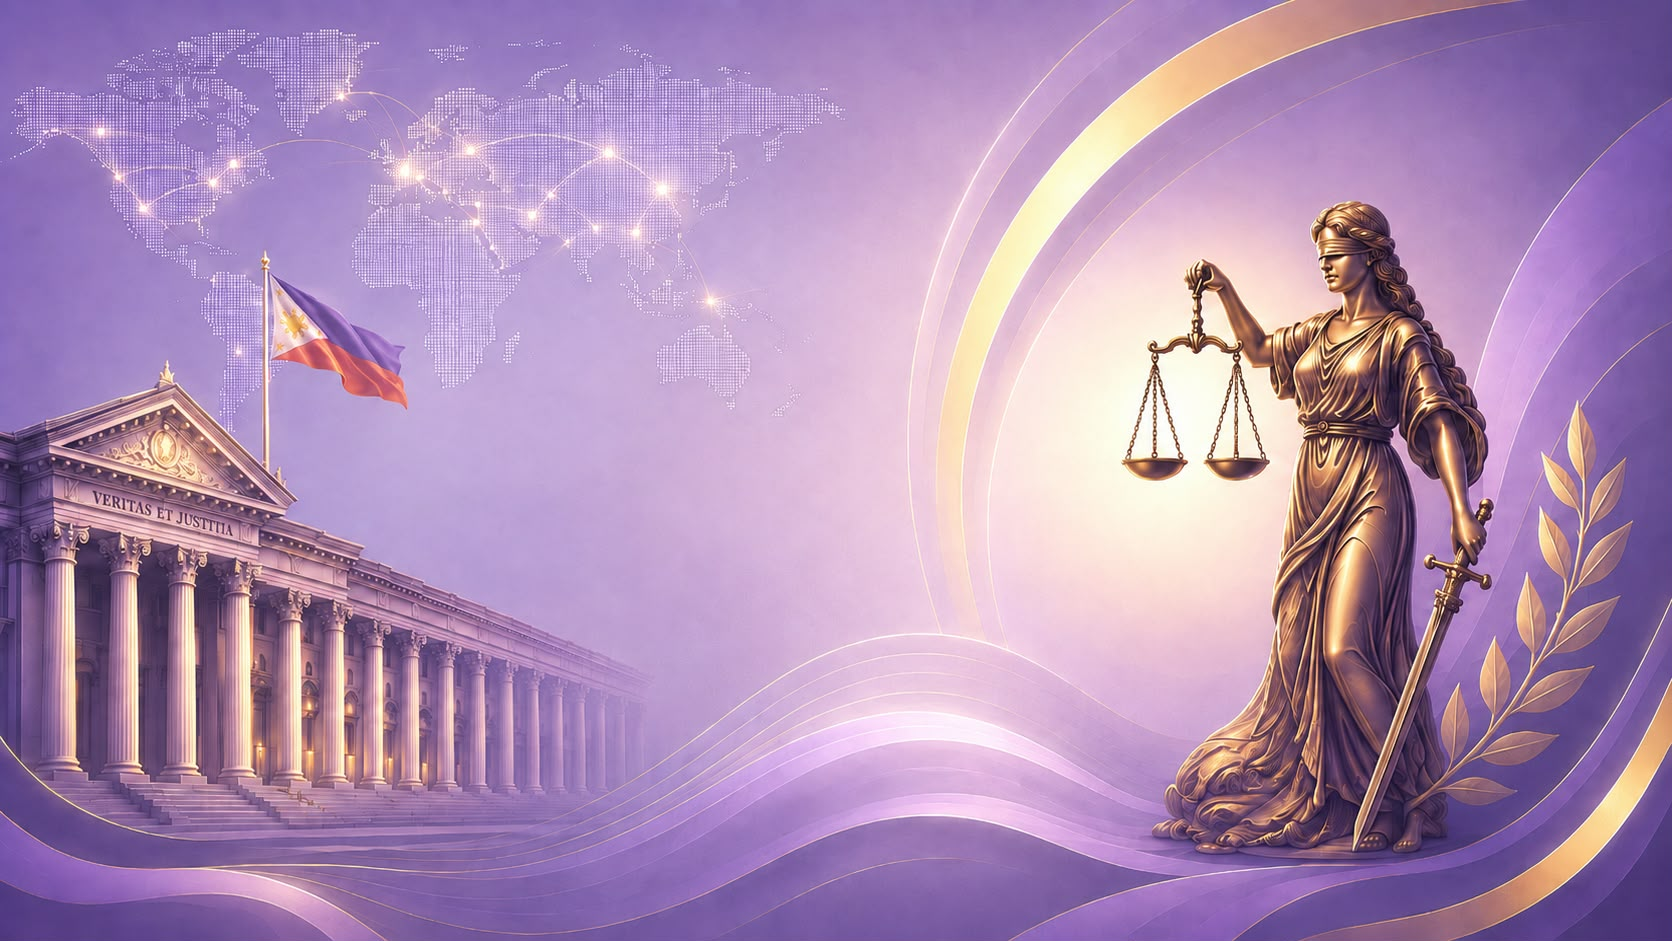
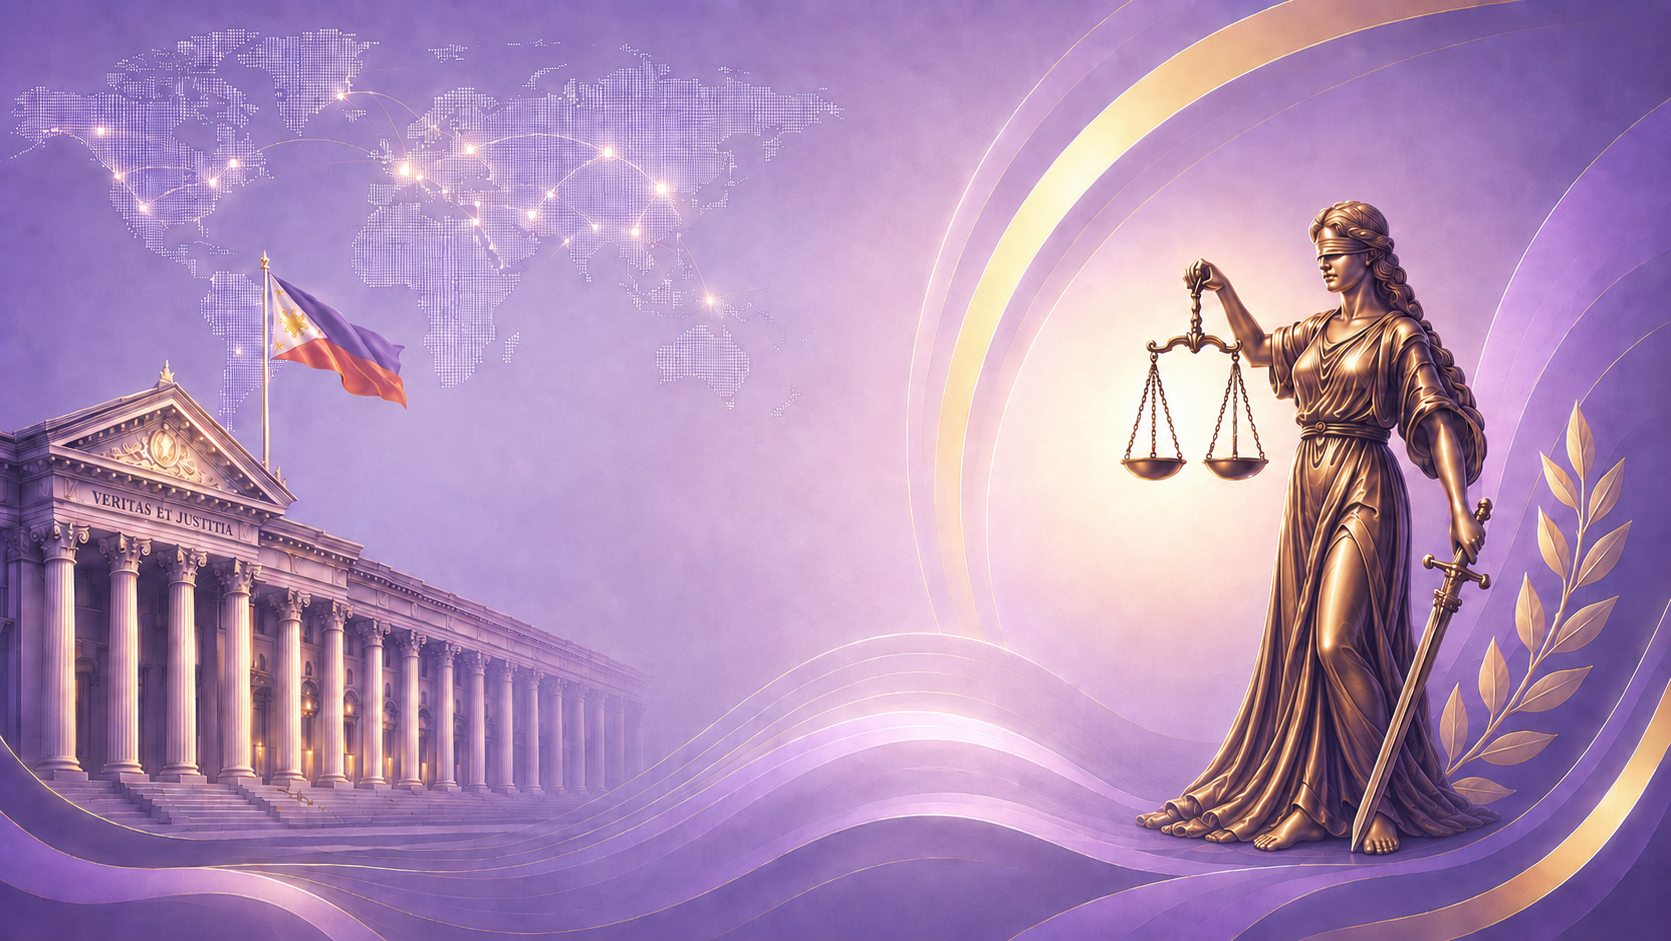
Update website

diff --git a/style.css b/style.css
@@ -6947,3 +6947,196 @@ body.gallery-lightbox-open {
     }
 }
 
+
+/* Portrait-device fallback: handles mobile browsers using a desktop-style viewport */
+@media (orientation: portrait) and (max-width: 1100px) {
+    html,
+    body.home-page {
+        width: 100%;
+        min-width: 0;
+        overflow-x: hidden;
+    }
+
+    .home-page .home-shell {
+        width: 100%;
+        min-width: 0;
+    }
+
+    .home-page .home-hero {
+        min-height: 100svh !important;
+        padding-bottom: 0 !important;
+        background:
+            linear-gradient(180deg, rgba(10, 4, 32, .30), rgba(10, 4, 32, .08)),
+            url("images/home-mobile-bg.jpg") center top / cover no-repeat !important;
+    }
+
+    .home-page .home-hero::before,
+    .home-page .home-hero::after,
+    .home-page .home-map,
+    .home-page .hero-art,
+    .home-page .hero-wave,
+    .home-page .home-feature-band {
+        display: none !important;
+    }
+
+    .home-page .navbar.home-navbar {
+        position: relative !important;
+        min-height: 82px !important;
+        height: 82px !important;
+        padding: 16px 22px 8px !important;
+        display: flex !important;
+        align-items: flex-start !important;
+        justify-content: space-between !important;
+        background: rgba(19, 9, 45, .18) !important;
+    }
+
+    .home-page .logo.home-logo {
+        width: auto !important;
+        max-width: calc(100% - 64px) !important;
+        min-width: 0 !important;
+        gap: 10px !important;
+    }
+
+    .home-page .logo.home-logo img {
+        width: 50px !important;
+        height: 50px !important;
+    }
+
+    .home-page .logo.home-logo strong {
+        max-width: 210px !important;
+        font-size: 14px !important;
+        line-height: 1.05 !important;
+    }
+
+    .home-page .logo.home-logo em {
+        font-size: 9px !important;
+        letter-spacing: 2px !important;
+    }
+
+    .home-page .mobile-menu-btn {
+        position: absolute !important;
+        top: 25px !important;
+        right: 24px !important;
+        z-index: 5001 !important;
+        width: 34px !important;
+        height: 34px !important;
+        display: flex !important;
+        flex-direction: column !important;
+        align-items: center !important;
+        justify-content: center !important;
+        gap: 5px !important;
+        padding: 0 !important;
+        border: 0 !important;
+        background: transparent !important;
+    }
+
+    .home-page .mobile-menu-btn span {
+        display: block !important;
+        width: 25px !important;
+        height: 3px !important;
+        margin: 0 !important;
+        border-radius: 999px !important;
+        background: #fff !important;
+    }
+
+    .home-page .nav-links {
+        position: absolute !important;
+        top: 72px !important;
+        left: 18px !important;
+        right: 18px !important;
+        z-index: 5000 !important;
+        display: none !important;
+        flex-direction: column !important;
+        align-items: stretch !important;
+        gap: 0 !important;
+        padding: 10px !important;
+        border: 1px solid rgba(255, 214, 10, .35) !important;
+        border-radius: 16px !important;
+        background: rgba(36, 12, 73, .98) !important;
+        box-shadow: 0 18px 45px rgba(0, 0, 0, .34) !important;
+    }
+
+    .home-page .nav-links.active {
+        display: flex !important;
+    }
+
+    .home-page .nav-links li,
+    .home-page .nav-links a {
+        width: 100% !important;
+        margin: 0 !important;
+    }
+
+    .home-page .nav-links a {
+        display: block !important;
+        padding: 13px 14px !important;
+        border-radius: 10px !important;
+        font-size: 15px !important;
+        text-align: left !important;
+    }
+
+    .home-page .home-hero-inner {
+        display: block !important;
+        min-height: 0 !important;
+        padding: 34px 28px 46px !important;
+    }
+
+    .home-page .home-copy {
+        width: 100% !important;
+        max-width: 520px !important;
+        padding-top: 0 !important;
+    }
+
+    .home-page .home-kicker {
+        margin-bottom: 9px !important;
+        font-size: clamp(18px, 4.8vw, 23px) !important;
+    }
+
+    .home-page .home-copy h1 {
+        max-width: 480px !important;
+        font-size: clamp(34px, 9vw, 52px) !important;
+        line-height: 1.12 !important;
+    }
+
+    .home-page .gold-divider {
+        width: min(100%, 390px) !important;
+        gap: 12px !important;
+        margin: 20px 0 !important;
+    }
+
+    .home-page .gold-divider span {
+        width: auto !important;
+        flex: 1 1 auto !important;
+    }
+
+    .home-page .home-divider-laurel {
+        width: 58px !important;
+        height: 36px !important;
+    }
+
+    .home-page .home-subtitle {
+        max-width: 440px !important;
+        margin-bottom: 24px !important;
+        font-size: clamp(15px, 3.8vw, 18px) !important;
+        line-height: 1.55 !important;
+    }
+
+    .home-page .hero-buttons {
+        width: min(100%, 390px) !important;
+        max-width: 390px !important;
+        display: grid !important;
+        grid-template-columns: 1fr !important;
+        gap: 12px !important;
+    }
+
+    .home-page .hero-buttons .btn,
+    .home-page .hero-buttons .primary-btn,
+    .home-page .hero-buttons .secondary {
+        width: 100% !important;
+        min-width: 0 !important;
+        height: 50px !important;
+        min-height: 50px !important;
+        padding: 0 18px !important;
+        justify-content: center !important;
+        font-size: 15px !important;
+    }
+}

diff --git a/pages/officers.html b/pages/officers.html
@@ -50,45 +50,7 @@
     </p>
 </header>
 
-<!-- Program Chair -->
 
-<section class="officer-section">
-
-<h2>Program Chair</h2>
-
-<div class="officer-grid">
-
-<a href="profiles/pc.html" class="officer-card">
-<img src="../images/officers/pc.jpg" alt="Program Chair" loading="eager" decoding="async" fetchpriority="high">
-<h3>TBA</h3>
-<h4>Program Chair</h4>
-<p>"Leadership through service."</p>
-<span>View Profile →</span>
-</a>
-
-</div>
-
-</section>
-
-<!-- Assistant Program Chair -->
-
-<section class="officer-section">
-
-<h2>Assistant Program Chair</h2>
-
-<div class="officer-grid">
-
-<a href="profiles/apc1.html" class="officer-card">
-<img src="../images/officers/apc1.jpg" alt="Assistant Program Chair" loading="eager" decoding="async" fetchpriority="high">
-<h3>TBA</h3>
-<h4>Assistant Program Chair</h4>
-<p>"Leadership through service."</p>
-<span>View Profile →</span>
-</a>
-
-</div>
-
-</section>
 
 <!-- Adviser -->
 
@@ -237,22 +199,6 @@
 </div>
 
 </section>
-
-<!-- Standing Committees -->
-
-<section class="officer-section">
-
-<h2>PSS Standing Committees</h2>
-
-<div class="officer-grid">
-
-<a href="profiles/sc1.html" class="officer-card">
-<img src="../images/officers/sc1.jpg" alt="" loading="eager" decoding="async" fetchpriority="high">
-<h3>TBA</h3>
-<h4>Standing Committee</h4>
-<p>"Every voice deserves to be heard."</p>
-<span>View Profile →</span>
-</a>
 
 <script src="../script.js"></script>
 

diff --git a/pages/saved-facts.html b/pages/saved-facts.html
@@ -1,4 +1,4 @@
-<!DOCTYPE html>
+<!DOCTYPE html>
 <html lang="en">
 
 <head>
@@ -11,7 +11,7 @@
         <link rel="preload" as="image" href="../images/background-portrait.jpg" media="(max-width: 900px), (orientation: portrait)" fetchpriority="high">
     <link rel="stylesheet" href="../style.css">
     <link rel="stylesheet" href="../political-wisdom.css">
-    <link rel="stylesheet" href="../political-science-trivia.css">
+    <link rel="stylesheet" href="../political-science-trivia.css?v=saved-bg-2">
     <link rel="preload" as="image" href="../images2/political-trivia/Political-trivia-saved-facts.jpg" fetchpriority="high">
     <link rel="prefetch" href="../images2/political-trivia/Political-trivia-saved-facts.jpg">
 </head>

diff --git a/political-science-trivia.css b/political-science-trivia.css
@@ -1,4 +1,4 @@
-/* ===========================
+/* ===========================
    POLITICAL SCIENCE TRIVIA
 =========================== */
 
@@ -245,7 +245,7 @@ body.collection-page {
     min-height: 100vh;
     background-image:
         linear-gradient(rgba(20,20,20,.45), rgba(20,20,20,.45)),
-        url("../images2/political-trivia/Political-trivia-saved-facts.jpg") !important;
+        url("images2/political-trivia/Political-trivia-saved-facts.jpg") !important;
     background-size: cover !important;
     background-position: center center !important;
     background-repeat: no-repeat !important;

diff --git a/index.html b/index.html
@@ -11,7 +11,7 @@
         <link rel="preload" as="image" href="images/home-portal-bg.png" media="(min-width: 721px)" fetchpriority="high">
     <link rel="preload" as="image" href="images/home-mobile-bg.jpg" media="(max-width: 720px)" fetchpriority="high">
         <link rel="preload" as="image" href="images/background-portrait.jpg" media="(max-width: 900px), (orientation: portrait)" fetchpriority="high">
-    <link rel="stylesheet" href="style.css">
+    <link rel="stylesheet" href="style.css?v=mobile-2">
 </head>
 
 <body class="home-page">